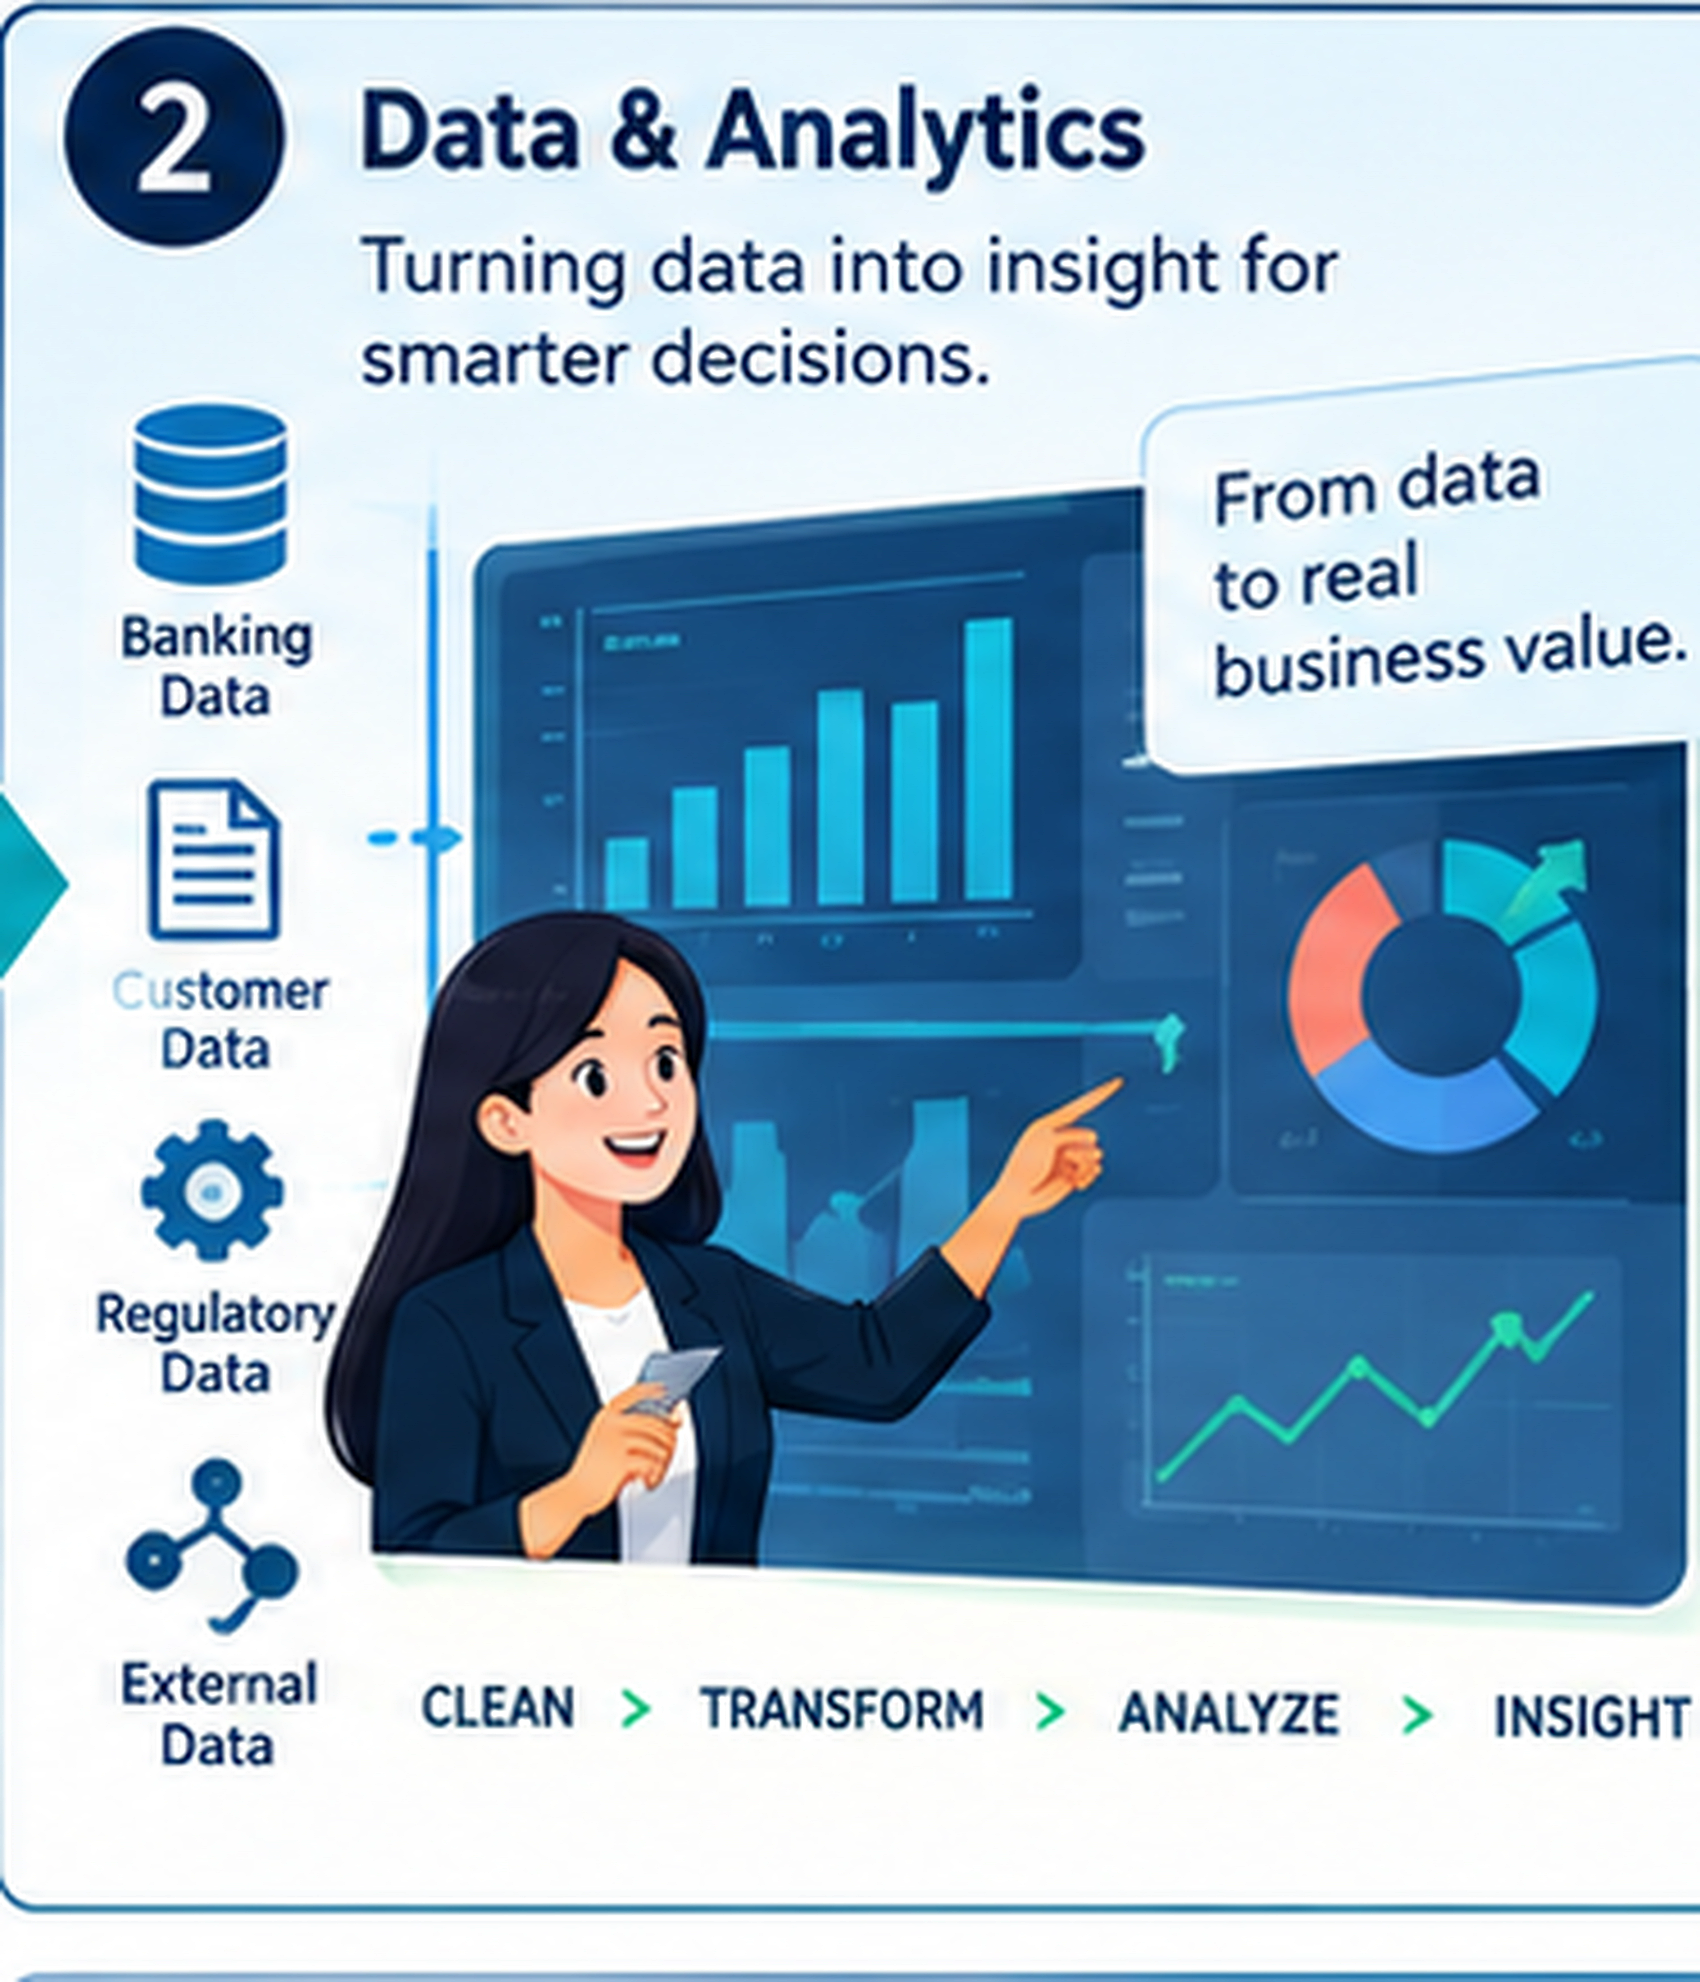
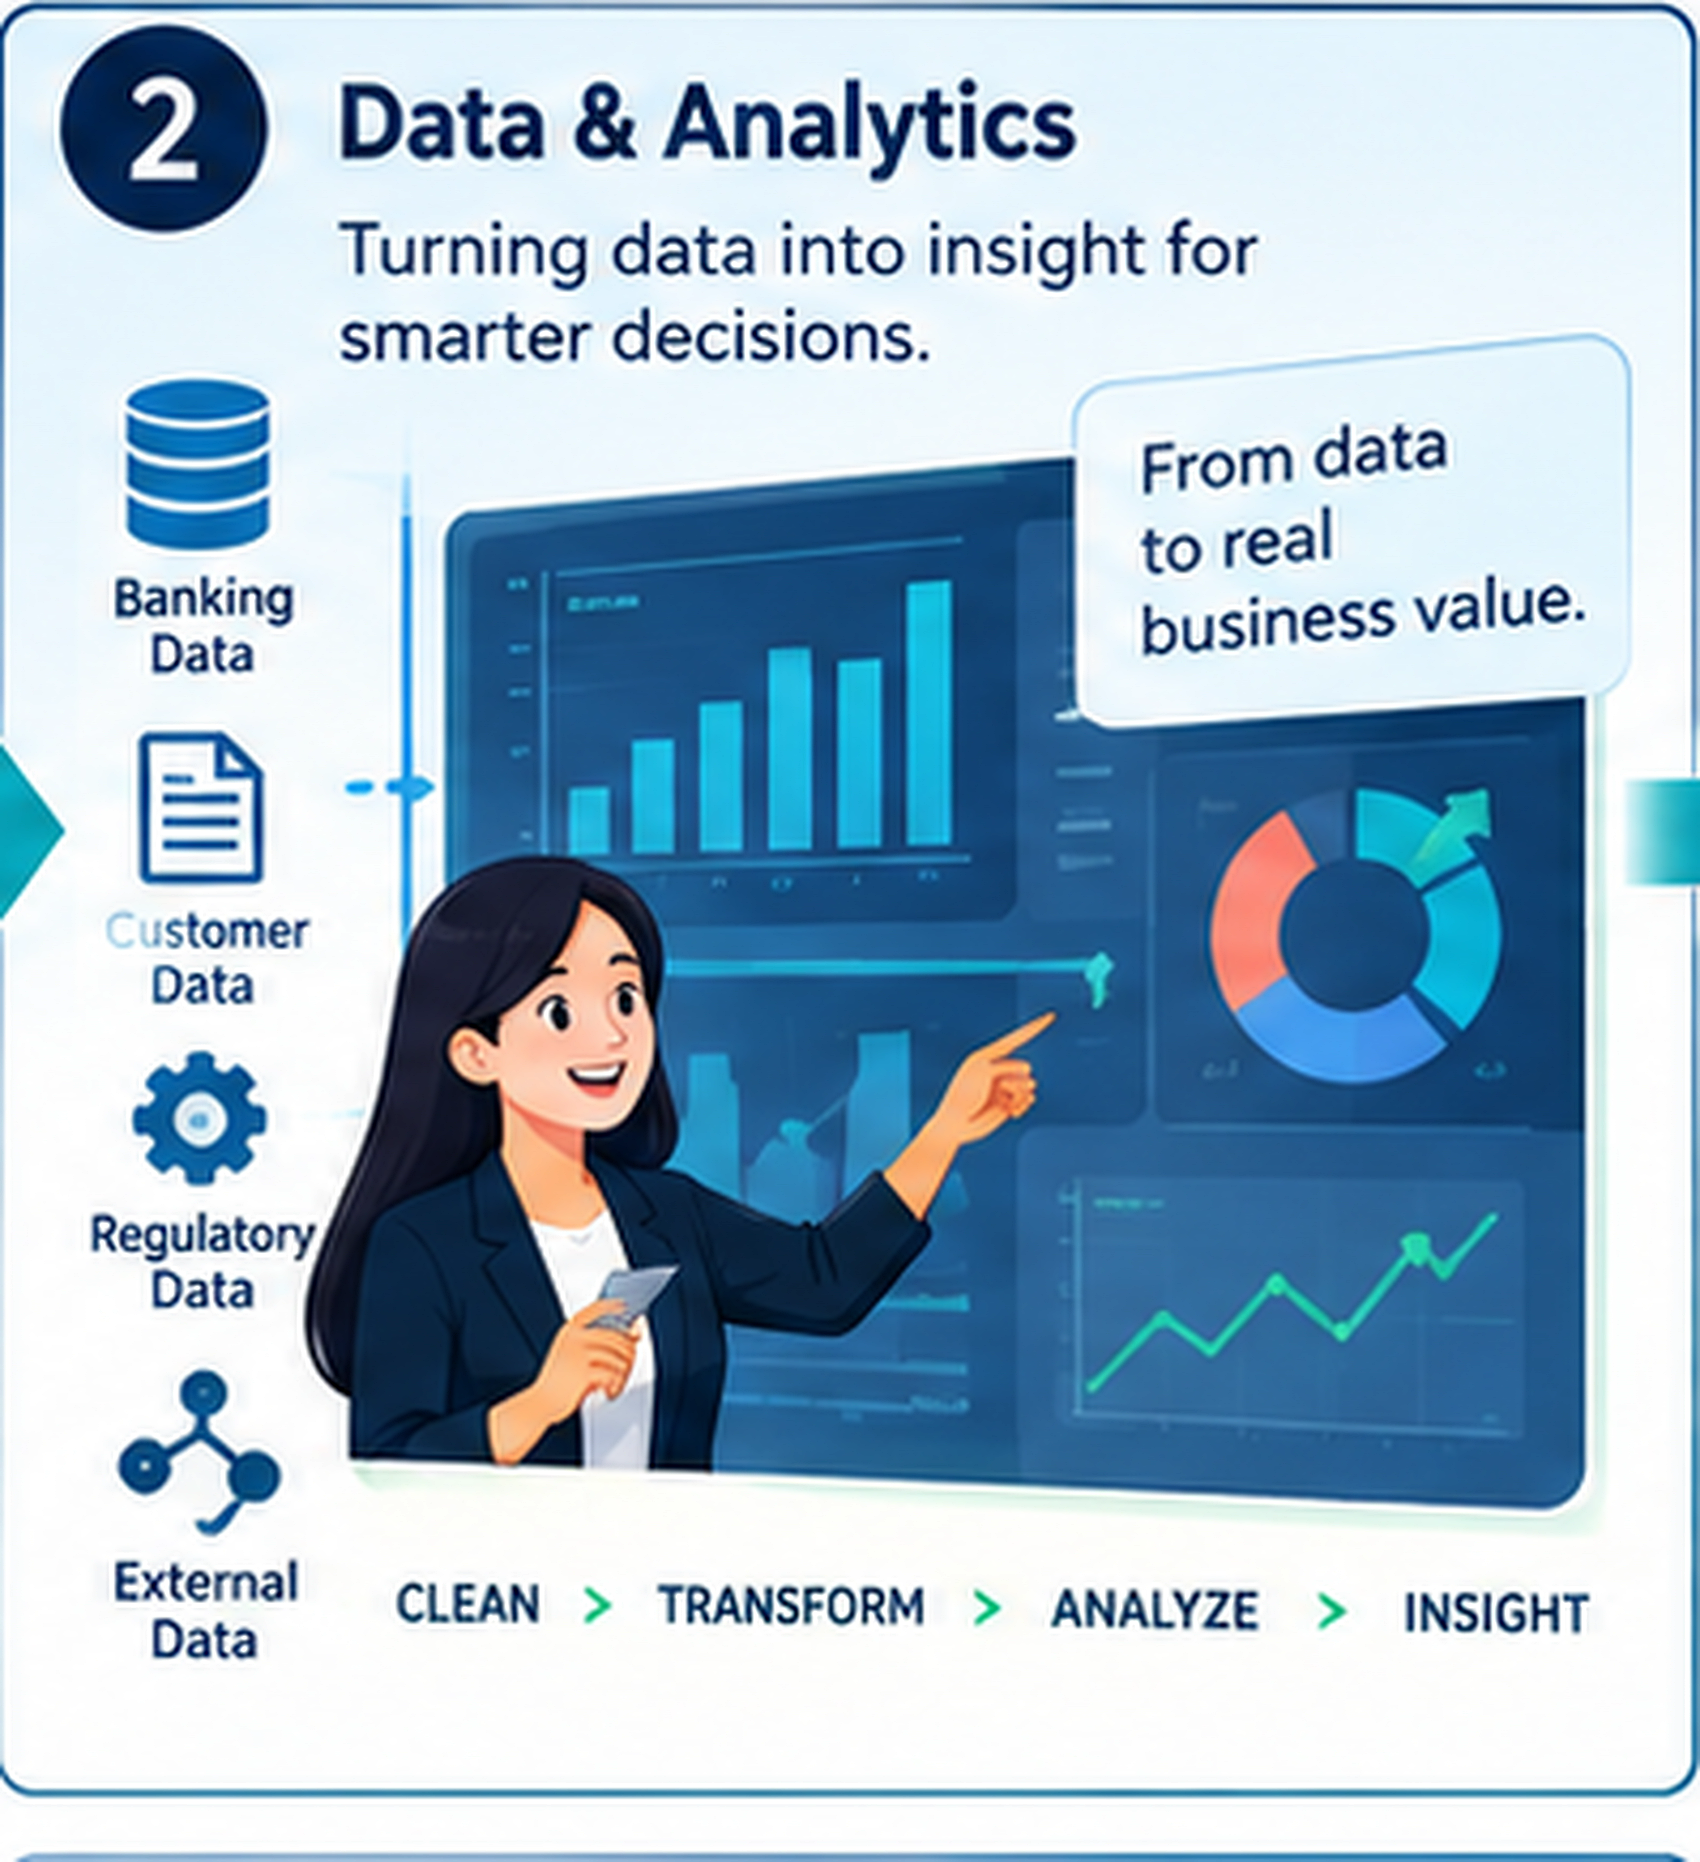
Widen column-2 panel crops so panels 2 and 6 keep their right edge
Claude-Session: https://claude.ai/code/session_01LCCqAd9Y5JQ2y1siSFa5nV

Changed region(s): [[0.0312, 0.0, 1.0, 1.0], [0.5612, 0.9968, 0.5924, 1.0], [0.0, 0.4049, 0.0312, 0.4361]]

diff --git a/render/README.md b/render/README.md
@@ -34,7 +34,7 @@ grid (4 columns × 2 rows) with connector arrows between cards. An even
 aren't exactly half the image height — bleeds the bottom of row 1's cards
 into the top of row 2's crops. The real boundaries were found by sampling
 pixel colors along horizontal/vertical scan-lines to locate the navy gaps
-between cards. Final crop rectangles (x, width): columns at 0/402, 436/374,
+between cards. Final crop rectangles (x, width): columns at 0/402, 436/398,
 843/407, 1258/414; rows at y=88–524 (row 1, banner trimmed) and y=524–940
 (row 2). Each panel is then lanczos-upscaled to 1700px wide and lightly
 sharpened.
